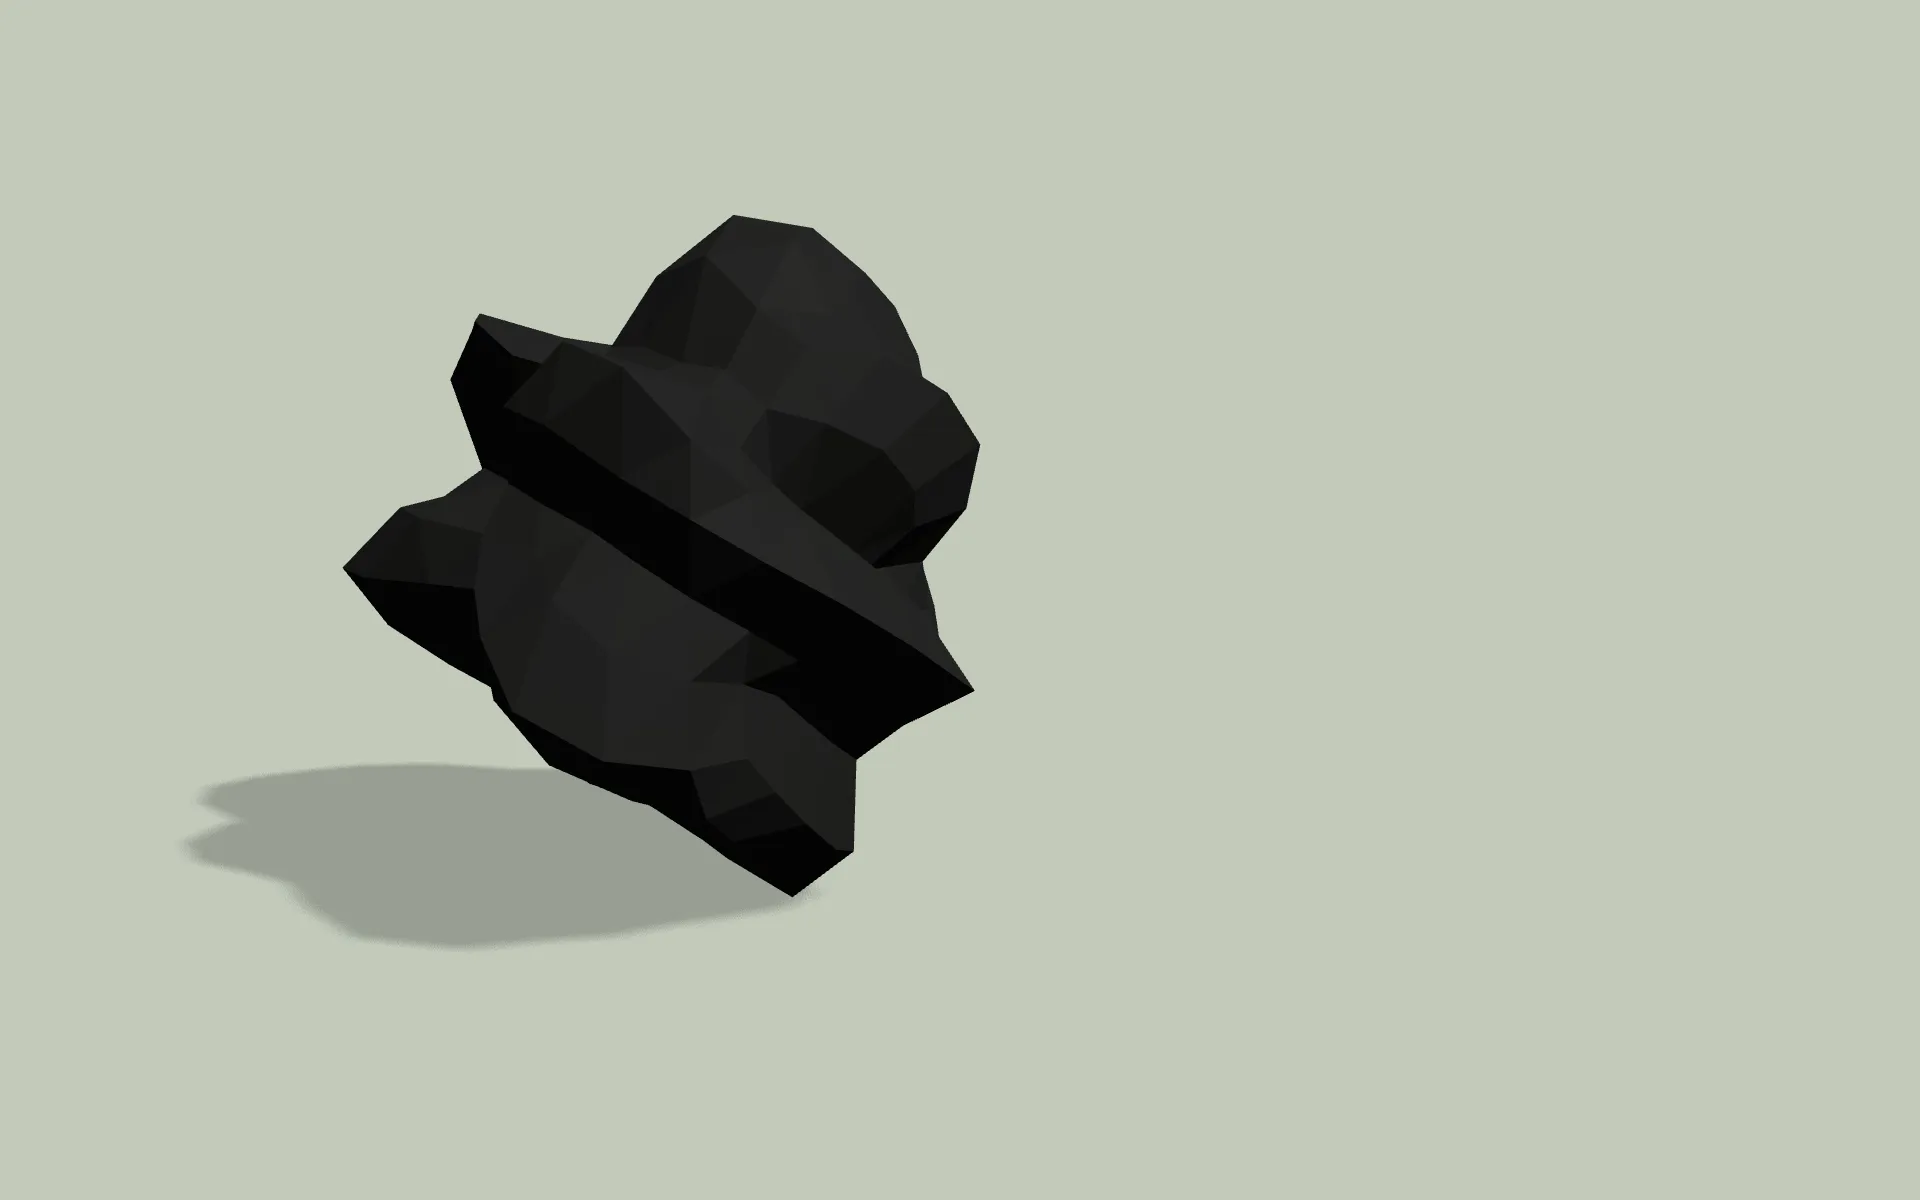
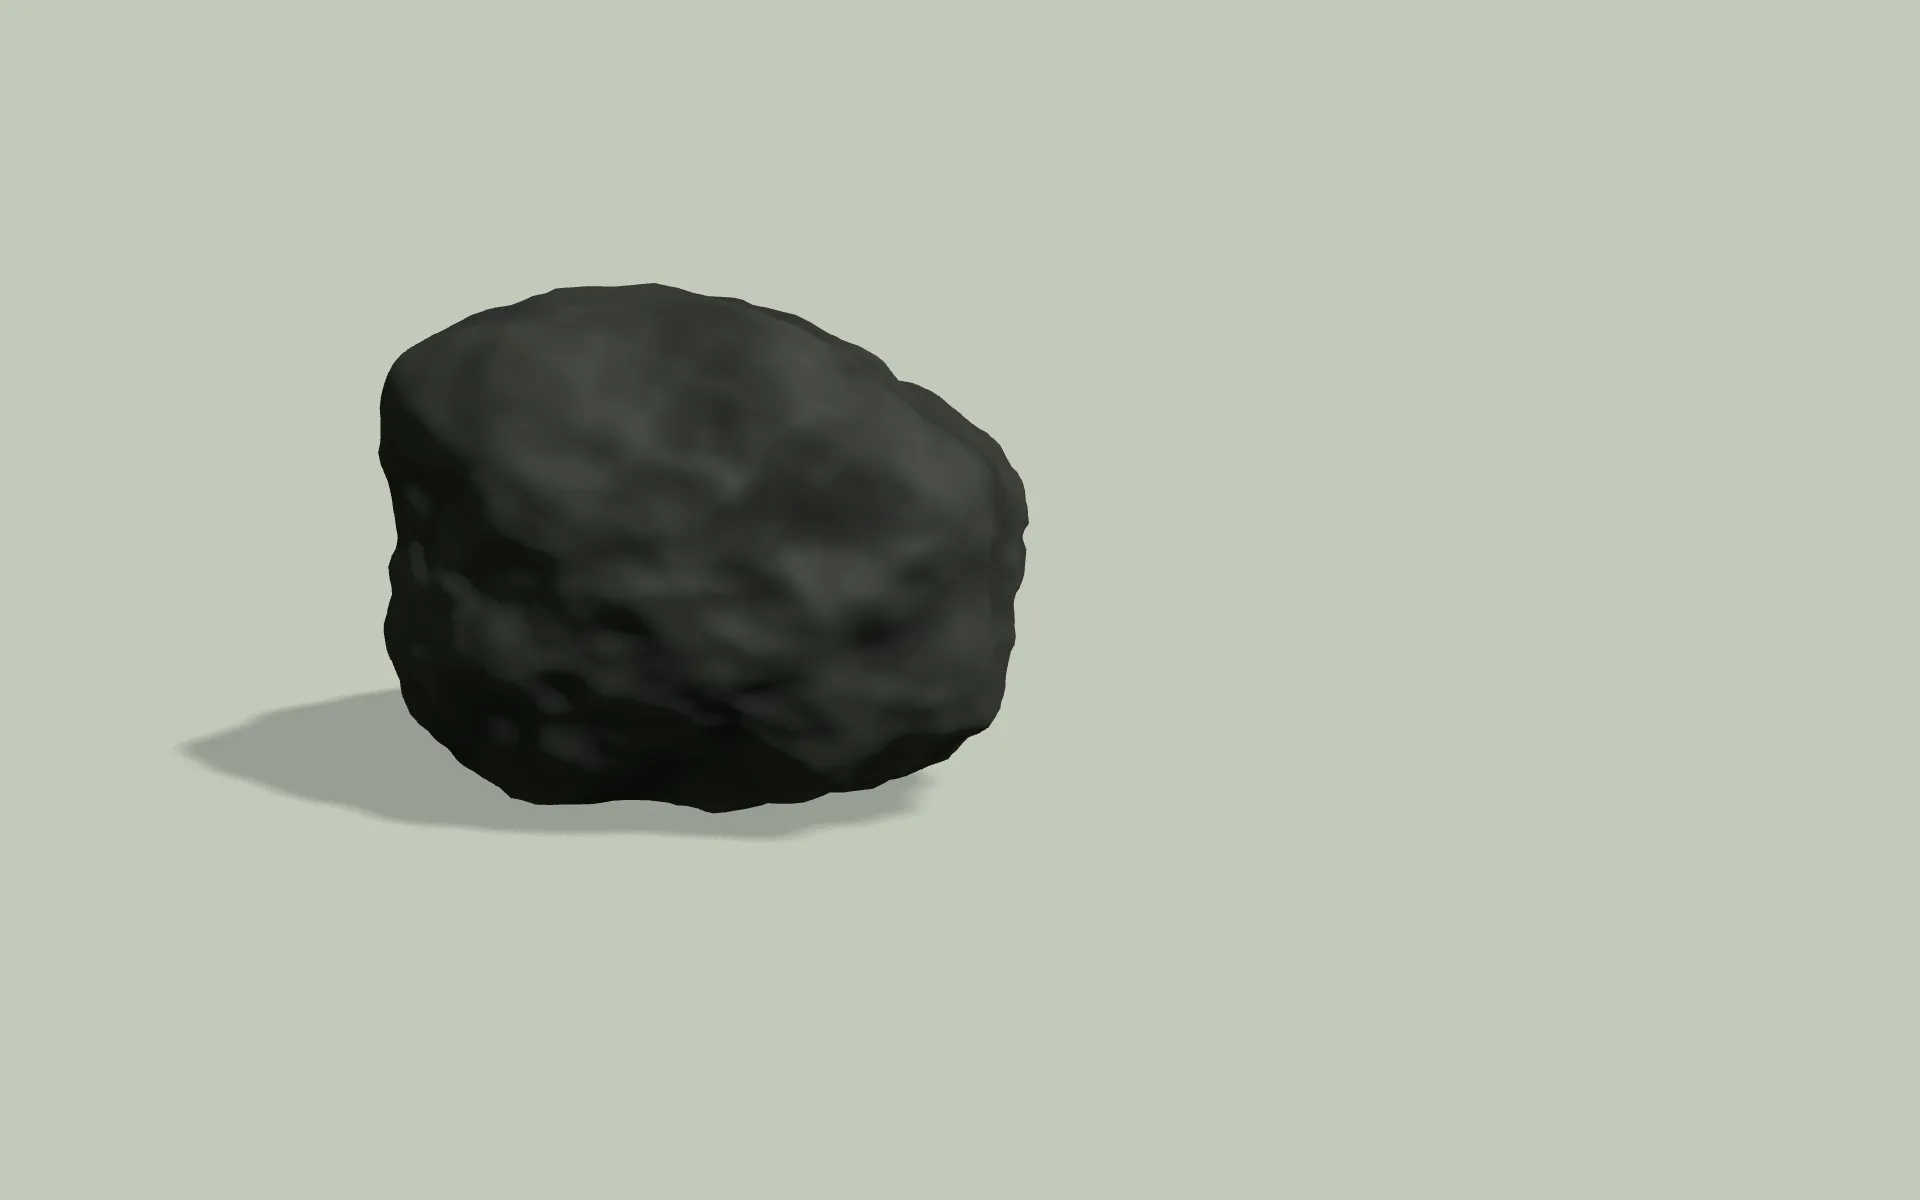
feat(redesign): P4 石头改为程序纹理与平滑法线
- 3D 值噪声分形叠加生成大形与细节,底部压平作支撑面,合并顶点得到平滑法线

- 顶点色作漫反射纹理(岩面色块+凹陷加深),顶点粗糙度经 onBeforeCompile 乘到 roughness

- 21,780 个三角面;场景分块 gzip 132.5 kB(原 three 分块 192.7 kB)

- 重新截取横竖两张回退图

Changed region(s): [[0.0938, 0.185, 0.5625, 0.8017], [0.3125, 0.5858, 0.3438, 0.6167]]

diff --git a/src/components/site/hero/rockScene.ts b/src/components/site/hero/rockScene.ts
@@ -4,6 +4,7 @@
  */
 import {
   AmbientLight,
+  BufferAttribute,
   Color,
   DirectionalLight,
   Fog,
@@ -15,13 +16,18 @@ import {
   PlaneGeometry,
   Scene,
   ShadowMaterial,
-  Vector3,
   WebGLRenderer,
+  type BufferGeometry,
 } from 'three'
+import { mergeVertices } from 'three/examples/jsm/utils/BufferGeometryUtils.js'
 
 /** --sage = #C2CABB,背景与雾色 */
 const SAGE_HEX = 0xc2cabb
 const FOV = 35
+
+/** 细分 32:合并顶点后 21,780 个三角面,低于 DESIGN.md 7.2 的 30k 预算 */
+const ROCK_DETAIL = 32
+const ROCK_RADIUS = 2
 
 /**
  * 取景:石头中心在画面中的位置(px, py,0–1)与大小(fill)。
@@ -32,13 +38,109 @@ function framingFor(aspect: number) {
   return aspect >= 1 ? { px: 0.36, py: 0.47, fill: 0.62 } : { px: 0.5, py: 0.34, fill: 0.72 }
 }
 
-// 简单伪噪声:多个 sin/cos 叠加
-function pseudoNoise(x: number, y: number, z: number): number {
-  return (
-    Math.sin(x * 1.7 + y * 2.3) * 0.5 +
-    Math.cos(y * 2.1 - z * 1.9) * 0.3 +
-    Math.sin(z * 1.3 + x * 1.1) * 0.2
-  )
+// ---- 程序噪声:3D 值噪声 + 分形叠加(fbm),固定种子,每次生成的石头相同 ----
+function hash3(x: number, y: number, z: number): number {
+  const h = Math.sin(x * 127.1 + y * 311.7 + z * 74.7) * 43758.5453123
+  return h - Math.floor(h)
+}
+const smooth = (t: number) => t * t * (3 - 2 * t)
+function valueNoise(x: number, y: number, z: number): number {
+  const xi = Math.floor(x)
+  const yi = Math.floor(y)
+  const zi = Math.floor(z)
+  const u = smooth(x - xi)
+  const v = smooth(y - yi)
+  const w = smooth(z - zi)
+  const lerp = (a: number, b: number, t: number) => a + (b - a) * t
+  const c = (dx: number, dy: number, dz: number) => hash3(xi + dx, yi + dy, zi + dz)
+  const x00 = lerp(c(0, 0, 0), c(1, 0, 0), u)
+  const x10 = lerp(c(0, 1, 0), c(1, 1, 0), u)
+  const x01 = lerp(c(0, 0, 1), c(1, 0, 1), u)
+  const x11 = lerp(c(0, 1, 1), c(1, 1, 1), u)
+  return lerp(lerp(x00, x10, v), lerp(x01, x11, v), w) * 2 - 1 // -1..1
+}
+function fbm(x: number, y: number, z: number, octaves: number): number {
+  let sum = 0
+  let amp = 0.5
+  let freq = 1
+  for (let o = 0; o < octaves; o++) {
+    sum += valueNoise(x * freq, y * freq, z * freq) * amp
+    freq *= 2.03
+    amp *= 0.5
+  }
+  return sum
+}
+
+/**
+ * 生成石头几何体,并写入两种顶点属性作为程序纹理:
+ * - color:漫反射明暗,大尺度噪声决定岩面色块,凹陷处加深
+ * - aRough:粗糙度系数,在着色器里乘到 roughness 上
+ * 为什么用顶点属性而不是贴图:球面 UV 有接缝,3D 噪声直接按顶点位置取值没有这个问题。
+ */
+export function buildRockGeometry(): BufferGeometry {
+  let geo: BufferGeometry = new IcosahedronGeometry(ROCK_RADIUS, ROCK_DETAIL)
+  // 多面体几何默认不共享顶点(法线是平的);删掉法线和 UV 后合并顶点,才能得到平滑法线
+  geo.deleteAttribute('normal')
+  geo.deleteAttribute('uv')
+  geo = mergeVertices(geo)
+
+  const pos = geo.attributes.position
+  const colors = new Float32Array(pos.count * 3)
+  const rough = new Float32Array(pos.count)
+  const dark = new Color('#1d1f1b')
+  const light = new Color('#55584f')
+  const tmp = new Color()
+  const floorY = -ROCK_RADIUS * 0.62 // 底面:压平成一个支撑面,石头能"坐"在地上
+
+  for (let i = 0; i < pos.count; i++) {
+    const len = Math.hypot(pos.getX(i), pos.getY(i), pos.getZ(i))
+    const nx = pos.getX(i) / len
+    const ny = pos.getY(i) / len
+    const nz = pos.getZ(i) / len
+
+    // 大形:低频噪声;细节:高频噪声
+    const shape = fbm(nx * 1.1 + 3.1, ny * 1.1, nz * 1.1 - 2.3, 3)
+    const detail = fbm(nx * 4.2, ny * 4.2 + 7.7, nz * 4.2, 4)
+    const r = ROCK_RADIUS * (1 + shape * 0.32 + detail * 0.07)
+
+    const x = nx * r
+    let y = ny * r * 0.78 // 压扁成卵石状
+    const z = nz * r * 1.08
+    if (y < floorY) y = floorY + (y - floorY) * 0.2
+    pos.setXYZ(i, x, y, z)
+
+    // 漫反射:岩面色块 + 凹陷(细节噪声低处)加深
+    const patch = fbm(nx * 2.6 - 5.1, ny * 2.6, nz * 2.6 + 1.7, 3) * 0.5 + 0.5
+    const cavity = Math.min(Math.max(detail * 2.2 + 0.55, 0), 1)
+    tmp.copy(dark).lerp(light, patch * 0.75).multiplyScalar(0.55 + cavity * 0.45)
+    colors[i * 3] = tmp.r
+    colors[i * 3 + 1] = tmp.g
+    colors[i * 3 + 2] = tmp.b
+
+    // 粗糙度系数 0.7–1.0:凸起处略光滑,像被磨过
+    rough[i] = 0.7 + (1 - cavity) * 0.3
+  }
+
+  geo.setAttribute('color', new BufferAttribute(colors, 3))
+  geo.setAttribute('aRough', new BufferAttribute(rough, 1))
+  geo.computeVertexNormals()
+  geo.computeBoundingBox()
+  geo.computeBoundingSphere()
+  return geo
+}
+
+/** 标准材质 + 顶点粗糙度:在 roughness 计算处乘上 aRough */
+function createRockMaterial(): MeshStandardMaterial {
+  const mat = new MeshStandardMaterial({ vertexColors: true, roughness: 1, metalness: 0 })
+  mat.onBeforeCompile = (shader) => {
+    shader.vertexShader = shader.vertexShader
+      .replace('#include <common>', '#include <common>\nattribute float aRough;\nvarying float vRough;')
+      .replace('#include <begin_vertex>', '#include <begin_vertex>\nvRough = aRough;')
+    shader.fragmentShader = shader.fragmentShader
+      .replace('#include <common>', '#include <common>\nvarying float vRough;')
+      .replace('#include <roughnessmap_fragment>', 'float roughnessFactor = roughness * vRough;')
+  }
+  return mat
 }
 
 export interface RockSceneOptions {
@@ -60,20 +162,11 @@ export function createRockScene({ canvas, container, onFirstFrame }: RockSceneOp
   renderer.shadowMap.type = PCFSoftShadowMap
 
   // ---- 石头 ----
-  const geo = new IcosahedronGeometry(2, 4)
-  const pos = geo.attributes.position
-  for (let i = 0; i < pos.count; i++) {
-    const v = new Vector3(pos.getX(i), pos.getY(i), pos.getZ(i)).normalize()
-    const disp = 1 + pseudoNoise(v.x * 3, v.y * 3, v.z * 3) * 0.35
-    pos.setXYZ(i, v.x * 2 * disp, v.y * 2 * disp, v.z * 2 * disp)
-  }
-  geo.computeVertexNormals()
-  geo.computeBoundingBox()
-  geo.computeBoundingSphere()
+  const geo = buildRockGeometry()
   const radius = geo.boundingSphere?.radius ?? 2.7
   const bottom = geo.boundingBox?.min.y ?? -2
 
-  const mat = new MeshStandardMaterial({ color: 0x10120f, roughness: 0.85, metalness: 0.05 })
+  const mat = createRockMaterial()
   const rock = new Mesh(geo, mat)
   rock.castShadow = true
   scene.add(rock)
@@ -89,8 +182,8 @@ export function createRockScene({ canvas, container, onFirstFrame }: RockSceneOp
   scene.add(ground)
 
   // ---- 光照 ----
-  scene.add(new AmbientLight(SAGE_HEX, 1.2))
-  const sun = new DirectionalLight(0xffffff, 2.5)
+  scene.add(new AmbientLight(SAGE_HEX, 1.0))
+  const sun = new DirectionalLight(0xffffff, 2.6)
   sun.position.set(radius * 2, radius * 3, radius * 2)
   sun.castShadow = true
   sun.shadow.mapSize.set(1024, 1024)
